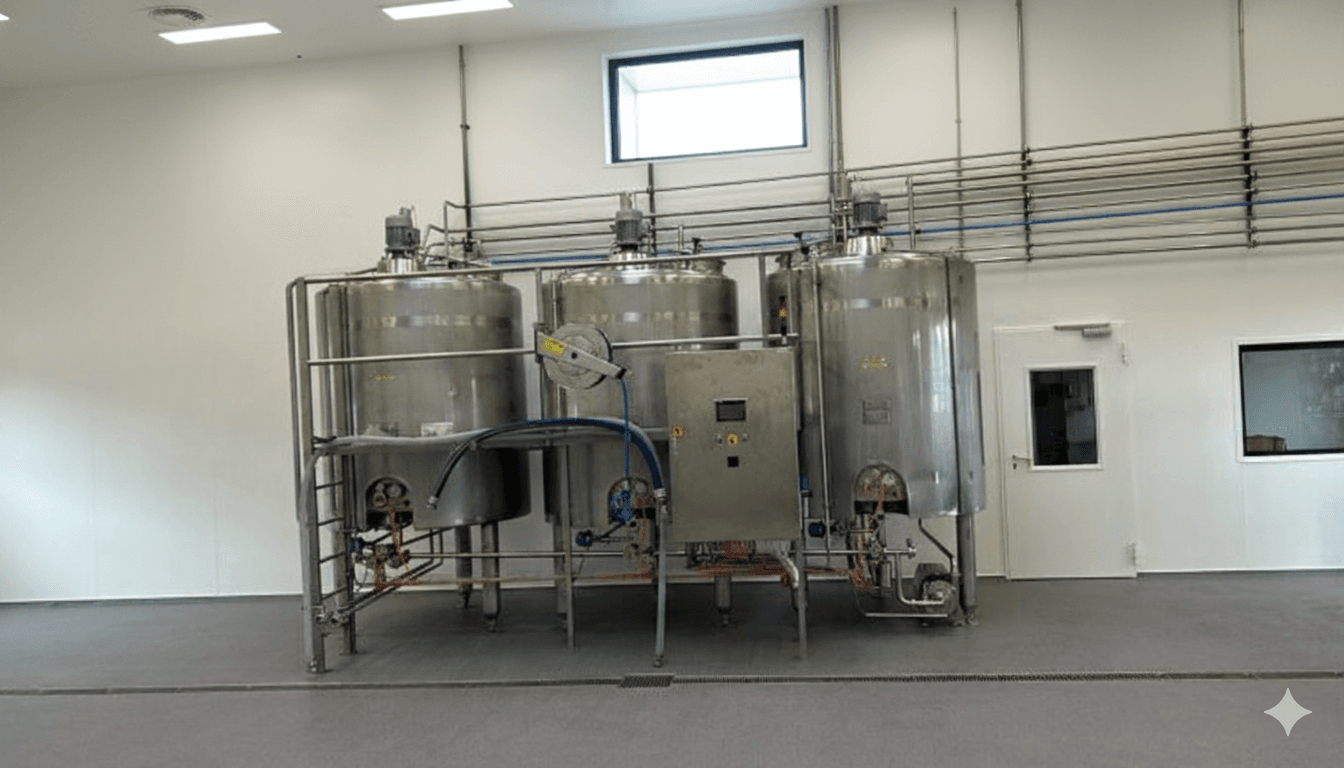
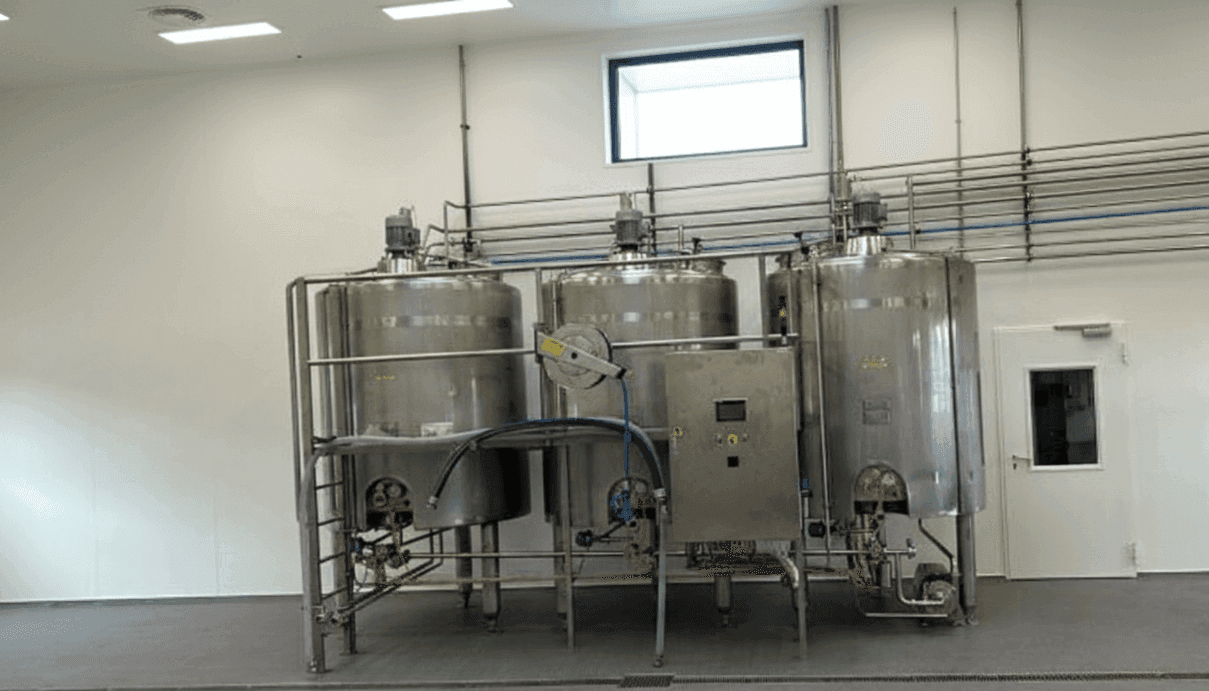
Fix: physically crop Seebodenhof images to remove Gemini watermark (bottom-right 10%)

diff --git a/src/lib/data.ts b/src/lib/data.ts
@@ -103,7 +103,7 @@ export const projects = [
     tags: ["Komplettlösung", "Inbetriebnahme"],
     image: "/Images/see1.png",
     images: ["/Images/see1.png", "/Images/see2.png", "/Images/see3.png", "/Images/see4.png"],
-    imagePositions: ["top left", "top left", "top left", "top left"]
+    imagePositions: ["center center", "center center", "center center", "center center"]
   }
 ];
 
